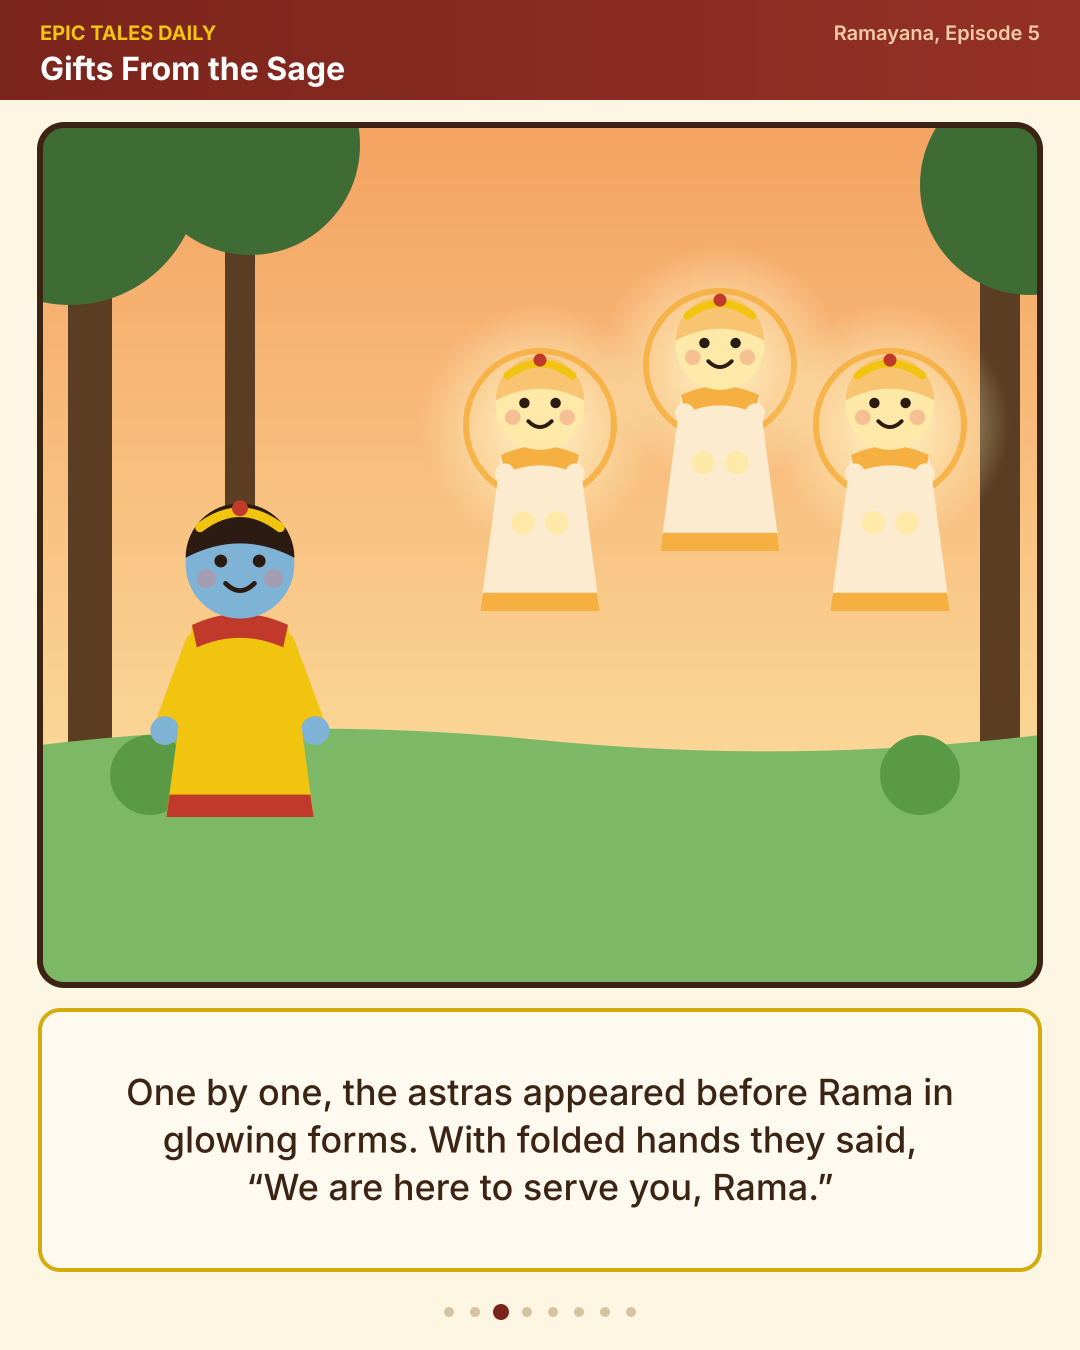
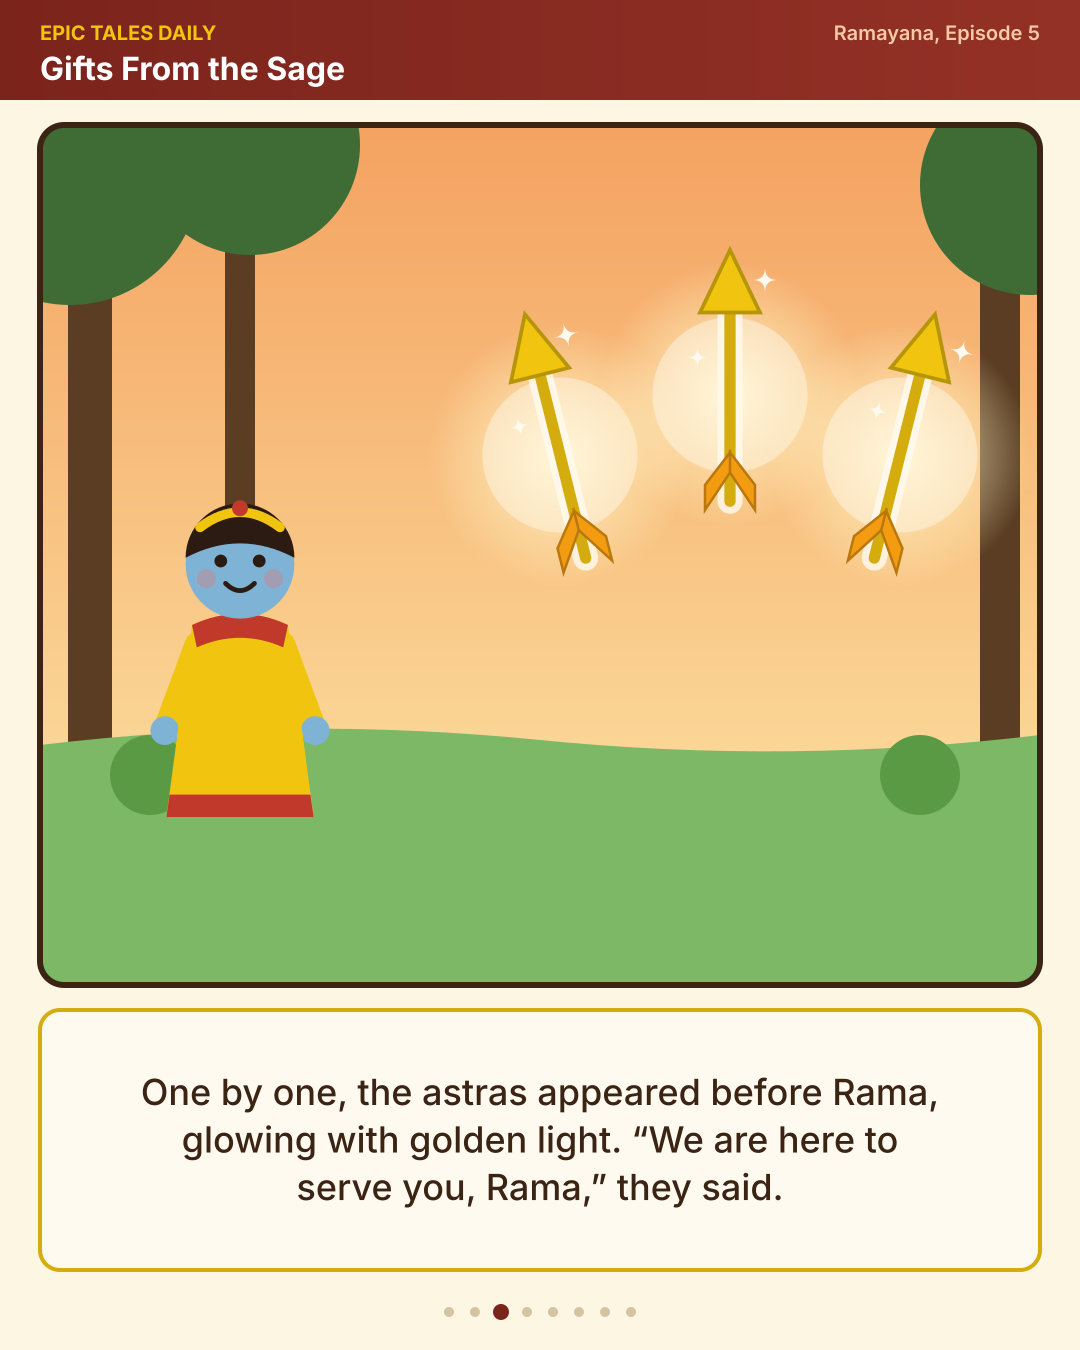
Episode 5: show the astras as glowing golden arrows
Replaces the figure-style astras with a new astra() prop and updates caption 3 to match.

Claude-Session: https://claude.ai/code/session_015fo28Q7rxPwJvHqSEZN8b3

Changed region(s): [[0.4278, 0.1867, 0.9472, 0.4667], [0.1222, 0.7778, 0.8861, 0.9022]]

diff --git a/tools/epic.py b/tools/epic.py
@@ -188,11 +188,19 @@ def bg_riverbank():
     return g
 
 # ---- Added in Episode 5 ----
-# A divine astra appearing in its shining form. Draw it with arms="hold" (palms joined) over halo().
-ASTRA=dict(robe="#fdebd0",skin="#ffe9a8",trim="#f5b041",hair="#f8c471",tiara=True)
 def halo(x,y,r=120,c="#fff6c9"):
-    """A soft circle of holy light behind a figure."""
+    """A soft circle of holy light behind a figure or a divine object."""
     return f'<circle cx="{x}" cy="{y}" r="{r}" fill="url(#glow)"/><circle cx="{x}" cy="{y}" r="{r*0.62:.0f}" fill="none" stroke="#f5b041" stroke-width="6" opacity="0.9"/>'
+def astra(x,y,s=1,angle=0):
+    """A divine astra: a golden arrow glowing with holy light. (x,y) is its middle; angle 0 points straight up."""
+    a=f'<g transform="translate({x},{y}) rotate({angle}) scale({s})">'
+    a+='<circle r="105" fill="url(#glow)"/><circle r="62" fill="#fffaf0" opacity="0.45"/>'
+    a+='<line x1="0" y1="85" x2="0" y2="-70" stroke="#fffaf0" stroke-width="20" stroke-linecap="round" opacity="0.8"/>'
+    a+='<line x1="0" y1="85" x2="0" y2="-70" stroke="#d4ac0d" stroke-width="9" stroke-linecap="round"/>'
+    a+='<polygon points="0,-116 -24,-66 24,-66" fill="#f1c40f" stroke="#b7950b" stroke-width="3"/>'
+    a+='<path d="M0,62 L-20,92 L-20,72 L0,46 Z M0,62 L20,92 L20,72 L0,46 Z" fill="#f39c12" stroke="#b9770e" stroke-width="2"/>'
+    a+=spark(28,-92,10,"#fffaf0")+spark(-26,-30,8,"#fffaf0")
+    return a+'</g>'
 def bowing(x,y,s=1,angle=28,**kw):
     """A person leaning forward in a respectful bow, palms joined. Faces right; pass angle negative with flip=True to face left."""
     kw.setdefault("arms","hold")

diff --git a/episodes/005/scenes.py b/episodes/005/scenes.py
@@ -14,14 +14,14 @@ def s2():
     return g
 def s3():
     g=bg_dawn_forest(sun=False)
-    for ax,ay in ((500,330),(680,270),(850,330)): g+=halo(ax,ay-30,120)+person(ax,ay,1.3,arms="hold",**ASTRA)
+    for ax,ay,an in ((520,330,-14),(690,270,0),(860,330,14)): g+=astra(ax,ay,1.25,an)
     g+=person(200,500,1.6,**RAMA)
     return g
 def s4():
     g=bg_dawn_forest(sun=False)
-    g+=halo(650,340,150)+person(650,380,1.45,arms="hold",**ASTRA)
-    g+=halo(860,320,110)+person(860,350,1.05,arms="hold",**ASTRA)
-    g+=person(360,480,1.7,arms="raise",**RAMA)
+    g+=halo(600,320,150)+astra(600,320,1.4,0)
+    g+=astra(810,260,1.0,10)+astra(860,470,0.85,18)
+    g+=person(420,500,1.7,arms="raise",**RAMA)
     return g
 def s5():
     g=bg_dawn_forest()
